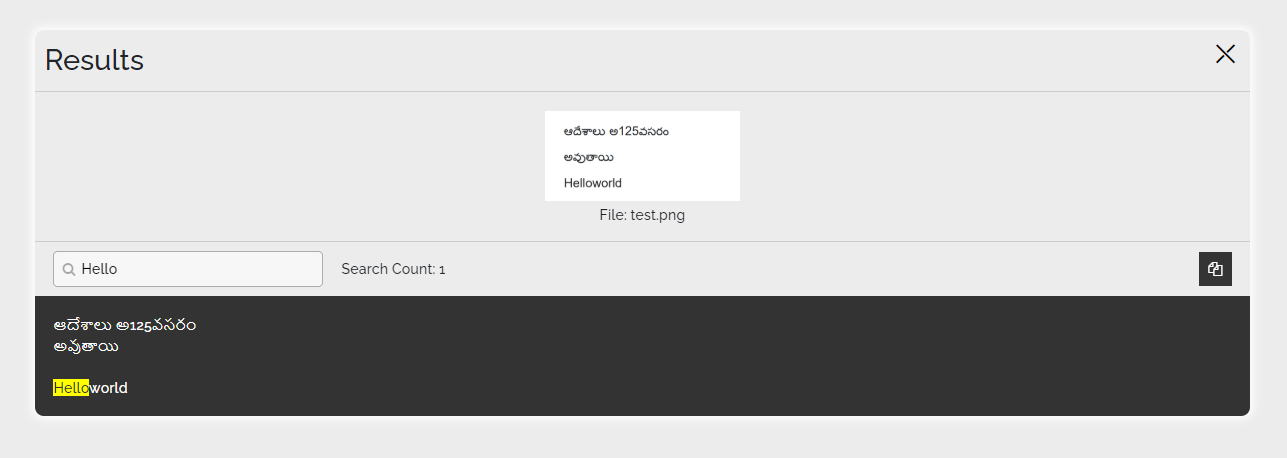
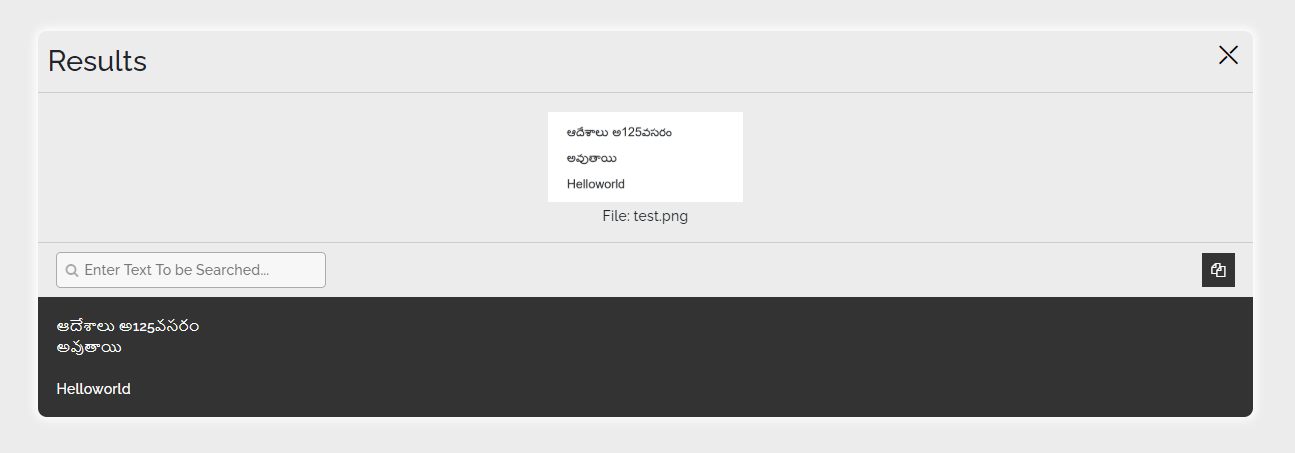
Display searching operation as well

diff --git a/README.md b/README.md
@@ -47,3 +47,7 @@ open terminal in linux(Debian Based) or command prompt in windows
 
 ![Result](screenshots/result.png)
 
+## Searching:
+
+![Search](screenshots/search.png)
+
